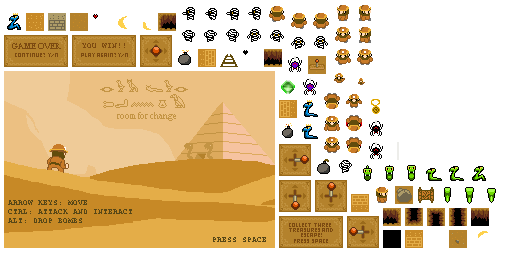
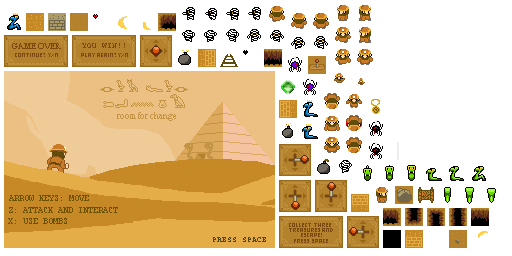
Changed ctrl + alt to z & x because browsers

Changed region(s): [[0.0, 0.75, 0.25, 0.875]]

diff --git a/roomforchange/roomforchange/src/com/sturdyhelmetgames/roomforchange/screen/GameScreen.java b/roomforchange/roomforchange/src/com/sturdyhelmetgames/roomforchange/screen/GameScreen.java
@@ -19,7 +19,6 @@ import com.sturdyhelmetgames.roomforchange.assets.FontBig;
 import com.sturdyhelmetgames.roomforchange.entity.Entity;
 import com.sturdyhelmetgames.roomforchange.entity.Entity.Direction;
 import com.sturdyhelmetgames.roomforchange.entity.Entity.HoleFallWrapper;
-import com.sturdyhelmetgames.roomforchange.entity.ExplodingBomb;
 import com.sturdyhelmetgames.roomforchange.entity.Player;
 import com.sturdyhelmetgames.roomforchange.level.Level;
 import com.sturdyhelmetgames.roomforchange.tween.Vector3Accessor;
@@ -229,18 +228,18 @@ public class GameScreen extends Basic2DScreen {
 		// if (keycode == Keys.D) {
 		// startScreenQuake(Level.RIGHT);
 		// }
-		if (keycode == Keys.CONTROL_LEFT) {
+		if (keycode == Keys.Z) {
 			level.player.tryHit();
 		}
-		if (keycode == Keys.ALT_LEFT) {
+		if (keycode == Keys.X) {
 			level.player.dropBomb();
 		}
-		if (keycode == Keys.K) {
-			level.entities.add(new ExplodingBomb(level.player.bounds.x + 2f,
-					level.player.bounds.y, level));
-			// level.addParticleEffect(Assets.PARTICLE_ENEMY_DIE,
-			// level.player.bounds.x + 2f, level.player.bounds.y);
-		}
+		// if (keycode == Keys.K) {
+		// level.entities.add(new ExplodingBomb(level.player.bounds.x + 2f,
+		// level.player.bounds.y, level));
+		// level.addParticleEffect(Assets.PARTICLE_ENEMY_DIE,
+		// level.player.bounds.x + 2f, level.player.bounds.y);
+		// }
 		return super.keyDown(keycode);
 	}
 
